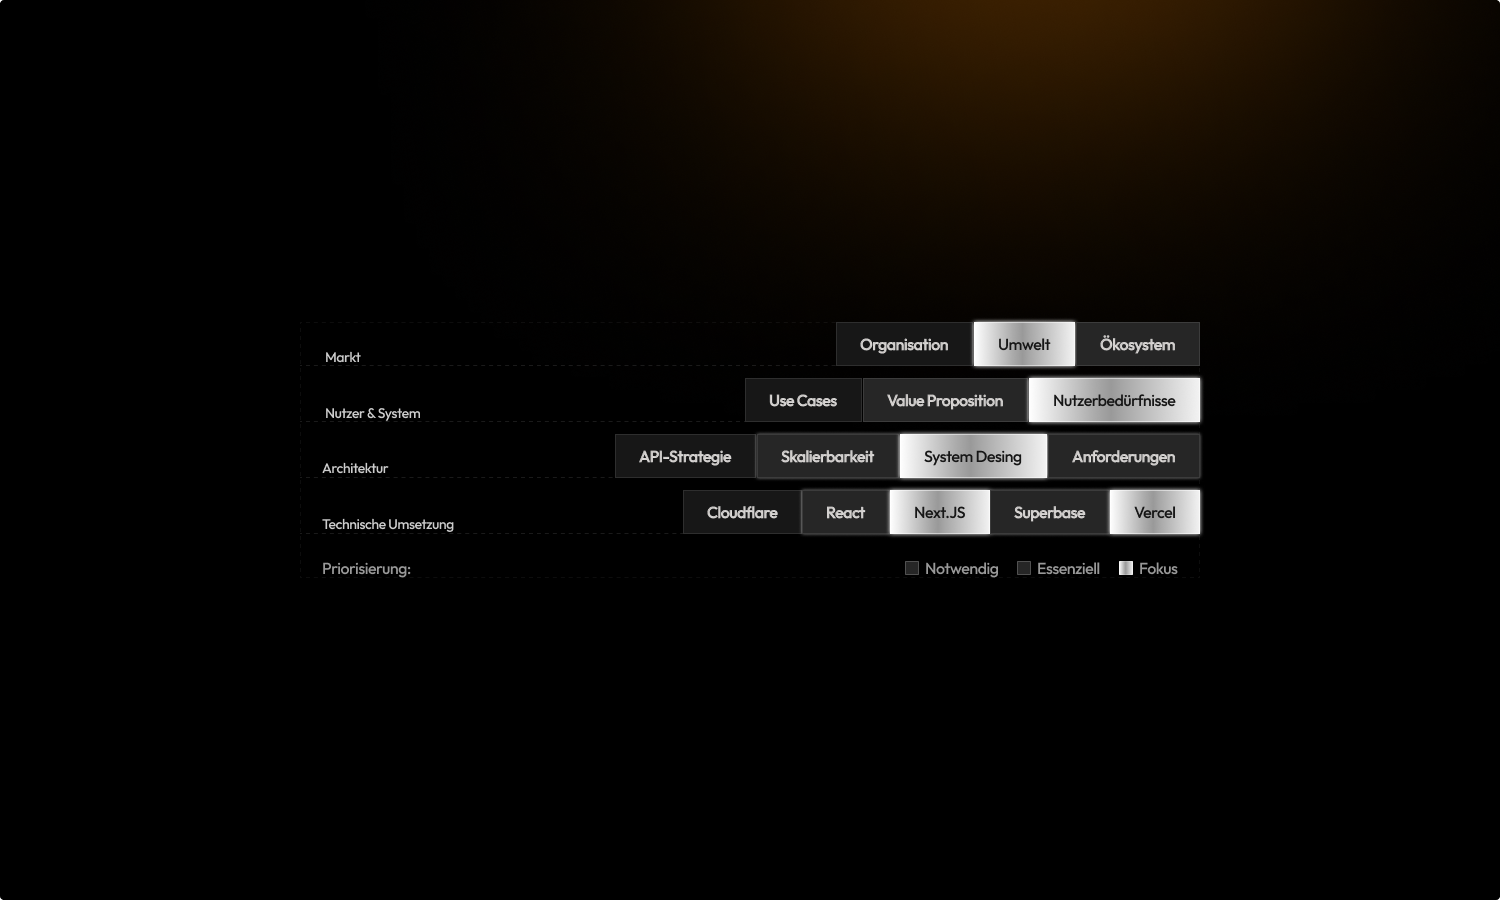
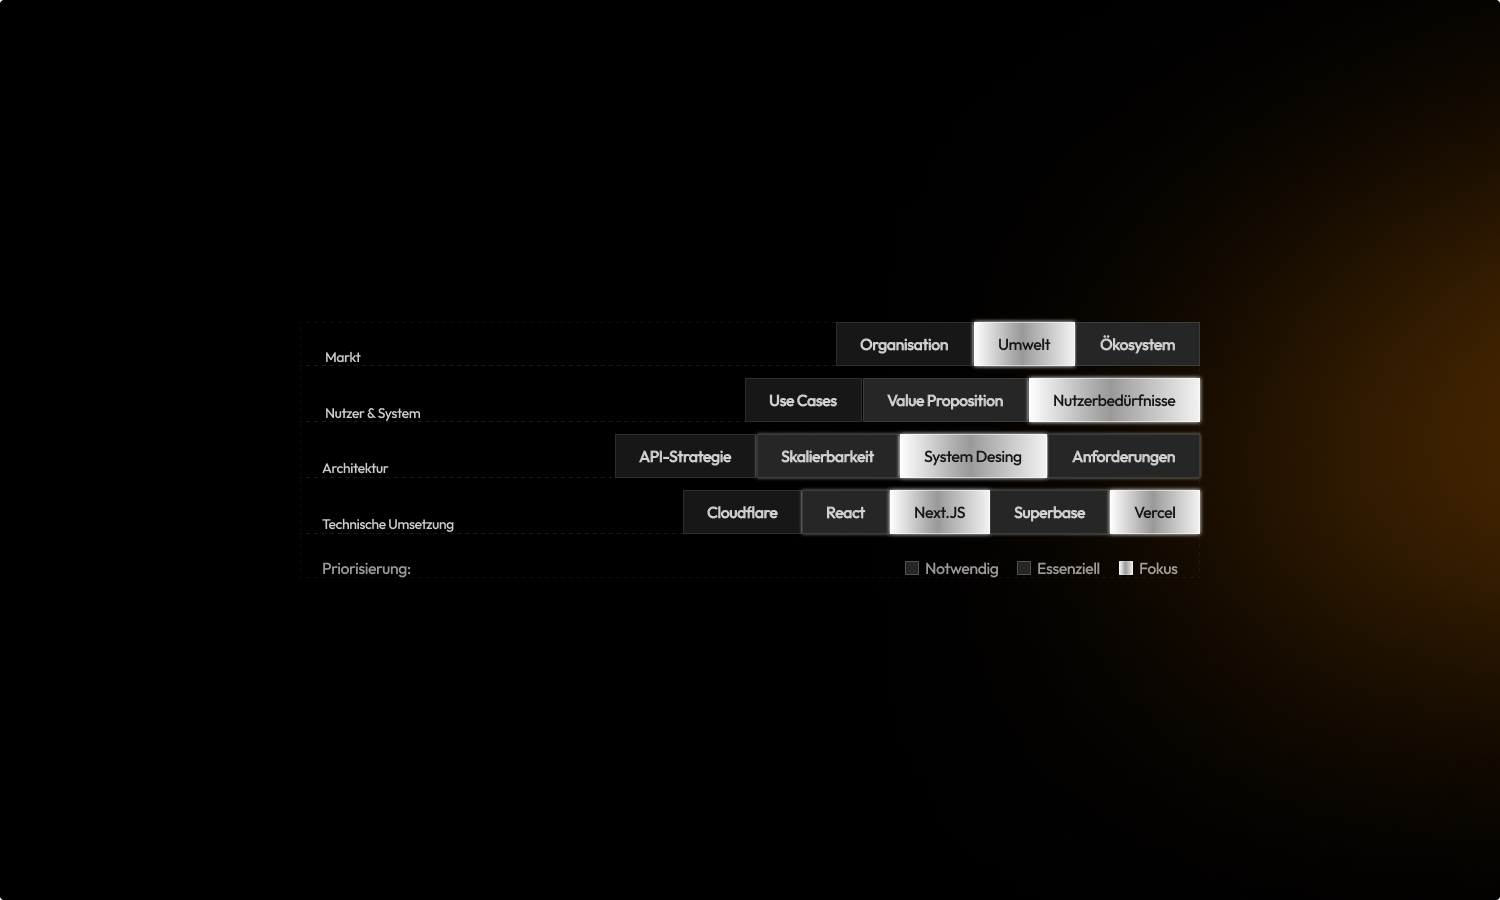
Fix Bentos and and Hero Glow

Changed region(s): [[0.7973, 0.1867, 1.0, 0.8089], [0.46, 0.0, 0.8893, 0.1867]]

diff --git a/app/(Sections)/Leistungen.tsx b/app/(Sections)/Leistungen.tsx
@@ -14,7 +14,7 @@ export default function LeistungenBento() {
             <div className='grid grid-cols-1 md:grid-cols-2 lg:grid-cols-10 gap-4 sm:gap-6 auto-rows-fr lg:h-[960px]'>
                 
                 {/* Card 1 - Positionierung und Marktforschung */}
-                <div className='bg-neutral-950 text-neutral-100 rounded-2xl sm:rounded-3xl p-4 sm:p-6 md:p-8 flex flex-col justify-between relative overflow-hidden h-[480px] sm:h-[360px] md:h-[400px] lg:h-full col-span-1 md:col-span-2 lg:col-span-6'>
+                <div className='bg-black text-neutral-100 rounded-2xl sm:rounded-3xl p-4 sm:p-6 md:p-8 flex flex-col justify-between relative overflow-hidden h-[480px] sm:h-[360px] md:h-[400px] lg:h-full col-span-1 md:col-span-2 lg:col-span-6'>
                     <p className='text-neutral-400 text-sm sm:text-base mb-4 z-20'>
                         <span className='text-neutral-50 font-medium'>Positionierung und Marktforschung, </span>
                         Wir schaffen Klarheit darüber, was Ihr wirklich verkauft, wen und warum es überzeugt
@@ -64,7 +64,7 @@ export default function LeistungenBento() {
                 </div>
 
                 {/* Card 4 - Entwicklung */}
-                <div className='bg-neutral-950 text-neutral-100 rounded-2xl sm:rounded-3xl p-4 sm:p-6 md:p-8 flex flex-col justify-between relative overflow-hidden h-[480px] sm:h-[360px] md:h-[400px] lg:h-full col-span-1 md:col-span-2 lg:col-span-6'>
+                <div className='bg-black text-neutral-100 rounded-2xl sm:rounded-3xl p-4 sm:p-6 md:p-8 flex flex-col justify-between relative overflow-hidden h-[480px] sm:h-[360px] md:h-[400px] lg:h-full col-span-1 md:col-span-2 lg:col-span-6'>
                     <p className='text-neutral-400 text-sm sm:text-base mb-4 z-20'>
                         <span className='text-neutral-50 font-medium'>Entwicklung, </span>
                         Wir entwickeln saubere, skalierbare Systeme, die sich flexibel anpassen lassen. So bleibt euer Produkt stabil, während es wächst.

diff --git a/app/(Sections)/Hero.tsx b/app/(Sections)/Hero.tsx
@@ -80,9 +80,9 @@ const handleAnimationComplete = () => {
           
         {/* Light purple glow 2 - innermost glow */}
         <div 
-          className='absolute inset-0 bg-purple-300 mx-0 my-0'
+          className='absolute inset-0 bg-purple-300 -m-4'
           style={{
-            filter: 'blur(clamp(15px, 1.2vw, 22px))'
+            filter: 'blur(clamp(20px, 6vw, 35px))'
           }}
         />
       
@@ -123,7 +123,7 @@ const handleAnimationComplete = () => {
               <div ref={sourceRef} className='relative w-full h-auto'>
             
                 {/* Glow Effects - Matching ElectricBorder Container */}
-                <div className='absolute inset-0 z-0 opacity-80 sm:opacity-100 '>
+                <div className='absolute inset-0 z-0 opacity-90 sm:opacity-100 overflow-visible'>
                   {/* Main blur background */}
                   <div 
                     className='absolute inset-0 opacity-70 bg-purple-300/90'
@@ -142,7 +142,7 @@ const handleAnimationComplete = () => {
                   <div 
                     className='absolute inset-0 bg-purple-200 m-4'
                     style={{
-                      filter: 'blur(clamp(12px, 10vw, 10px))'
+                      filter: 'blur(clamp(20px, 10vw, 40px))'
                     }}
                   />
                 
